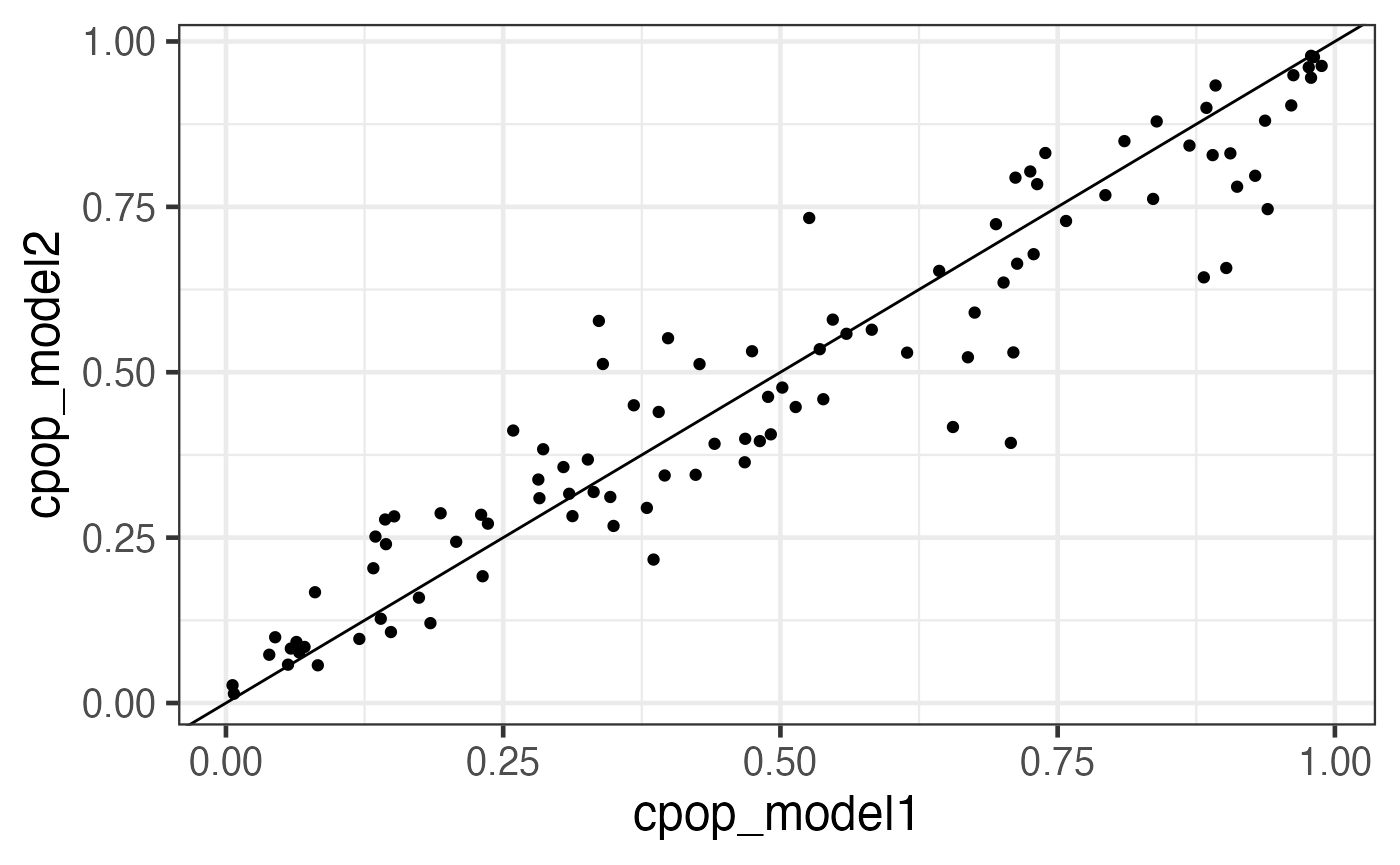
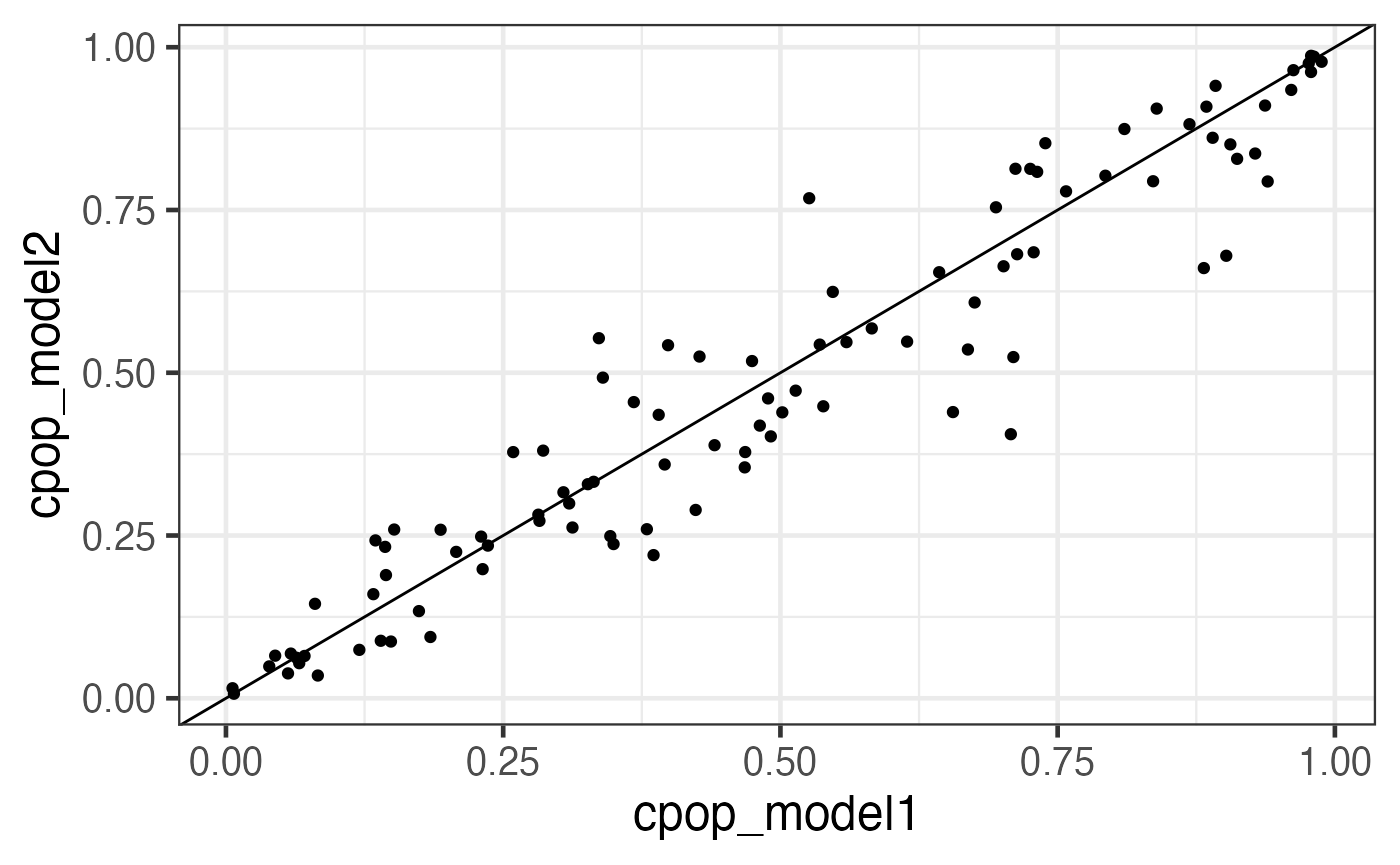
Built site for CPOP: 0.0.24@b8c599a

diff --git a/articles/CPOP.html b/articles/CPOP.html
@@ -149,28 +149,28 @@
 <pre><code><span class="co">## Fitting CPOP model using alpha = 1</span></code></pre>
 <pre><code><span class="co">## Based on previous alpha, 0 features are kept</span></code></pre>
 <pre><code><span class="co">## CPOP1 - Step 01: Number of selected features: 0 out of 190</span></code></pre>
-<pre><code><span class="co">## CPOP1 - Step 02: Number of selected features: 9 out of 190</span></code></pre>
-<pre><code><span class="co">## CPOP1 - Step 03: Number of selected features: 16 out of 190</span></code></pre>
+<pre><code><span class="co">## CPOP1 - Step 02: Number of selected features: 8 out of 190</span></code></pre>
+<pre><code><span class="co">## CPOP1 - Step 03: Number of selected features: 15 out of 190</span></code></pre>
 <pre><code><span class="co">## 10 features was reached.</span></code></pre>
-<pre><code><span class="co">## A total of 16 features were selected.</span></code></pre>
-<pre><code><span class="co">## Removing sources of collinearity gives 13 features.</span></code></pre>
+<pre><code><span class="co">## A total of 15 features were selected.</span></code></pre>
+<pre><code><span class="co">## Removing sources of collinearity gives 12 features.</span></code></pre>
 <pre><code><span class="co">## 10 features was reached.</span></code></pre>
-<pre><code><span class="co">## A total of 13 features were selected.</span></code></pre>
-<pre><code><span class="co">## CPOP2 - Sign: Step 01: Number of leftover features: 9 out of 13</span></code></pre>
+<pre><code><span class="co">## A total of 12 features were selected.</span></code></pre>
+<pre><code><span class="co">## CPOP2 - Sign: Step 01: Number of leftover features: 9 out of 12</span></code></pre>
 <pre><code><span class="co">## The sign matrix between the two data:</span></code></pre>
 <pre><code><span class="co">##     </span>
 <span class="co">##      -1 0 1</span>
-<span class="co">##   -1  0 0 1</span>
+<span class="co">##   -1  0 0 0</span>
 <span class="co">##   0   0 0 0</span>
 <span class="co">##   1   3 0 0</span></code></pre>
-<pre><code><span class="co">## CPOP2 - Sign: Step 02: Number of leftover features: 8 out of 13</span>
+<pre><code><span class="co">## CPOP2 - Sign: Step 02: Number of leftover features: 8 out of 12</span>
 <span class="co">## The sign matrix between the two data:</span></code></pre>
 <pre><code><span class="co">##     </span>
 <span class="co">##      -1 0 1</span>
 <span class="co">##   -1  0 0 0</span>
 <span class="co">##   0   0 0 0</span>
 <span class="co">##   1   1 0 0</span></code></pre>
-<pre><code><span class="co">## CPOP2 - Sign: Step 03: Number of leftover features: 8 out of 13</span>
+<pre><code><span class="co">## CPOP2 - Sign: Step 03: Number of leftover features: 8 out of 12</span>
 <span class="co">## The sign matrix between the two data:</span></code></pre>
 <pre><code><span class="co">##     </span>
 <span class="co">##      -1 0 1</span>
@@ -194,16 +194,16 @@
 <pre><code><span class="co">## </span>
 <span class="co">## $data</span>
 <span class="co">## <span style="color: #949494;"># A tibble: 8 × 3</span></span>
-<span class="co">##   coef_name  coef1     coef2</span>
-<span class="co">##   <span style="color: #949494; font-style: italic;">&lt;fct&gt;</span>      <span style="color: #949494; font-style: italic;">&lt;dbl&gt;</span>     <span style="color: #949494; font-style: italic;">&lt;dbl&gt;</span></span>
-<span class="co">## <span style="color: #BCBCBC;">1</span> X01--X10  -<span style="color: #BB0000;">0.322</span> -<span style="color: #BB0000;">0.245</span>   </span>
-<span class="co">## <span style="color: #BCBCBC;">2</span> X09--X17   0.722  0.468   </span>
-<span class="co">## <span style="color: #BCBCBC;">3</span> X11--X14   0.130  0.000<span style="text-decoration: underline;">811</span></span>
-<span class="co">## <span style="color: #BCBCBC;">4</span> X12--X20   0.404  0.143   </span>
-<span class="co">## <span style="color: #BCBCBC;">5</span> X01--X07  -<span style="color: #BB0000;">0.437</span> -<span style="color: #BB0000;">0.395</span>   </span>
-<span class="co">## <span style="color: #BCBCBC;">6</span> X01--X15  -<span style="color: #BB0000;">0.158</span> -<span style="color: #BB0000;">0.316</span>   </span>
-<span class="co">## <span style="color: #BCBCBC;">7</span> X01--X17  -<span style="color: #BB0000;">0.901</span> -<span style="color: #BB0000;">0.577</span>   </span>
-<span class="co">## <span style="color: #BCBCBC;">8</span> X04--X12   0.353  0.393</span></code></pre>
+<span class="co">##   coef_name  coef1    coef2</span>
+<span class="co">##   <span style="color: #949494; font-style: italic;">&lt;fct&gt;</span>      <span style="color: #949494; font-style: italic;">&lt;dbl&gt;</span>    <span style="color: #949494; font-style: italic;">&lt;dbl&gt;</span></span>
+<span class="co">## <span style="color: #BCBCBC;">1</span> X01--X10  -<span style="color: #BB0000;">0.322</span> -<span style="color: #BB0000;">0.245</span>  </span>
+<span class="co">## <span style="color: #BCBCBC;">2</span> X09--X17   0.722  0.591  </span>
+<span class="co">## <span style="color: #BCBCBC;">3</span> X11--X14   0.130  0.004<span style="text-decoration: underline;">57</span></span>
+<span class="co">## <span style="color: #BCBCBC;">4</span> X12--X20   0.404  0.205  </span>
+<span class="co">## <span style="color: #BCBCBC;">5</span> X01--X07  -<span style="color: #BB0000;">0.437</span> -<span style="color: #BB0000;">0.421</span>  </span>
+<span class="co">## <span style="color: #BCBCBC;">6</span> X01--X15  -<span style="color: #BB0000;">0.158</span> -<span style="color: #BB0000;">0.357</span>  </span>
+<span class="co">## <span style="color: #BCBCBC;">7</span> X01--X17  -<span style="color: #BB0000;">0.901</span> -<span style="color: #BB0000;">0.735</span>  </span>
+<span class="co">## <span style="color: #BCBCBC;">8</span> X04--X12   0.353  0.479</span></code></pre>
 <p>We can see that most of the selected features had similar coefficients across the two data. This is exactly what CPOP is aiming to achieve: selecting features that are consistent within each datasets.</p>
 <p>However, each of the feature (e.g. <code>X01--X10</code>) actually corresponds to two of the original features in the raw data <code>X01</code> and <code>X10</code> in the data <code>x1</code> and <code>x2</code>. We can further visualise these features in the original features.</p>
 <div class="sourceCode" id="cb33"><pre class="downlit sourceCode r">
@@ -213,16 +213,16 @@
 <pre><code><span class="co">## </span>
 <span class="co">## $data</span>
 <span class="co">## <span style="color: #949494;"># A tibble: 8 × 7</span></span>
-<span class="co">##   from  to     coef1     coef2 coef_avg coef_abs sign_coef1</span>
-<span class="co">##   <span style="color: #949494; font-style: italic;">&lt;chr&gt;</span> <span style="color: #949494; font-style: italic;">&lt;chr&gt;</span>  <span style="color: #949494; font-style: italic;">&lt;dbl&gt;</span>     <span style="color: #949494; font-style: italic;">&lt;dbl&gt;</span>    <span style="color: #949494; font-style: italic;">&lt;dbl&gt;</span>    <span style="color: #949494; font-style: italic;">&lt;dbl&gt;</span> <span style="color: #949494; font-style: italic;">&lt;chr&gt;</span>     </span>
-<span class="co">## <span style="color: #BCBCBC;">1</span> X01   X10   -<span style="color: #BB0000;">0.322</span> -<span style="color: #BB0000;">0.245</span>     -<span style="color: #BB0000;">0.283</span>    0.283  Negative  </span>
-<span class="co">## <span style="color: #BCBCBC;">2</span> X09   X17    0.722  0.468      0.595    0.595  Positive  </span>
-<span class="co">## <span style="color: #BCBCBC;">3</span> X11   X14    0.130  0.000<span style="text-decoration: underline;">811</span>   0.065<span style="text-decoration: underline;">6</span>   0.065<span style="text-decoration: underline;">6</span> Positive  </span>
-<span class="co">## <span style="color: #BCBCBC;">4</span> X12   X20    0.404  0.143      0.274    0.274  Positive  </span>
-<span class="co">## <span style="color: #BCBCBC;">5</span> X01   X07   -<span style="color: #BB0000;">0.437</span> -<span style="color: #BB0000;">0.395</span>     -<span style="color: #BB0000;">0.416</span>    0.416  Negative  </span>
-<span class="co">## <span style="color: #BCBCBC;">6</span> X01   X15   -<span style="color: #BB0000;">0.158</span> -<span style="color: #BB0000;">0.316</span>     -<span style="color: #BB0000;">0.237</span>    0.237  Negative  </span>
-<span class="co">## <span style="color: #BCBCBC;">7</span> X01   X17   -<span style="color: #BB0000;">0.901</span> -<span style="color: #BB0000;">0.577</span>     -<span style="color: #BB0000;">0.739</span>    0.739  Negative  </span>
-<span class="co">## <span style="color: #BCBCBC;">8</span> X04   X12    0.353  0.393      0.373    0.373  Positive</span></code></pre>
+<span class="co">##   from  to     coef1    coef2 coef_avg coef_abs sign_coef1</span>
+<span class="co">##   <span style="color: #949494; font-style: italic;">&lt;chr&gt;</span> <span style="color: #949494; font-style: italic;">&lt;chr&gt;</span>  <span style="color: #949494; font-style: italic;">&lt;dbl&gt;</span>    <span style="color: #949494; font-style: italic;">&lt;dbl&gt;</span>    <span style="color: #949494; font-style: italic;">&lt;dbl&gt;</span>    <span style="color: #949494; font-style: italic;">&lt;dbl&gt;</span> <span style="color: #949494; font-style: italic;">&lt;chr&gt;</span>     </span>
+<span class="co">## <span style="color: #BCBCBC;">1</span> X01   X10   -<span style="color: #BB0000;">0.322</span> -<span style="color: #BB0000;">0.245</span>    -<span style="color: #BB0000;">0.284</span>    0.284  Negative  </span>
+<span class="co">## <span style="color: #BCBCBC;">2</span> X09   X17    0.722  0.591     0.656    0.656  Positive  </span>
+<span class="co">## <span style="color: #BCBCBC;">3</span> X11   X14    0.130  0.004<span style="text-decoration: underline;">57</span>   0.067<span style="text-decoration: underline;">5</span>   0.067<span style="text-decoration: underline;">5</span> Positive  </span>
+<span class="co">## <span style="color: #BCBCBC;">4</span> X12   X20    0.404  0.205     0.305    0.305  Positive  </span>
+<span class="co">## <span style="color: #BCBCBC;">5</span> X01   X07   -<span style="color: #BB0000;">0.437</span> -<span style="color: #BB0000;">0.421</span>    -<span style="color: #BB0000;">0.429</span>    0.429  Negative  </span>
+<span class="co">## <span style="color: #BCBCBC;">6</span> X01   X15   -<span style="color: #BB0000;">0.158</span> -<span style="color: #BB0000;">0.357</span>    -<span style="color: #BB0000;">0.257</span>    0.257  Negative  </span>
+<span class="co">## <span style="color: #BCBCBC;">7</span> X01   X17   -<span style="color: #BB0000;">0.901</span> -<span style="color: #BB0000;">0.735</span>    -<span style="color: #BB0000;">0.818</span>    0.818  Negative  </span>
+<span class="co">## <span style="color: #BCBCBC;">8</span> X04   X12    0.353  0.479     0.416    0.416  Positive</span></code></pre>
 <p>Here we see that despite the features that we have selected in terms of the ratio, in actual fact, only a handful of features are useful. In particular, <code>X01</code>, <code>X09</code> and <code>X17</code> are the main contributors.</p>
 </div>
 <div class="section level2">
@@ -236,12 +236,12 @@
 <pre><code><span class="co">## <span style="color: #949494;"># A tibble: 6 × 6</span></span>
 <span class="co">##   samples cpop_model1 cpop_model2 cpop_model_avg cpop_model_avg_prob</span>
 <span class="co">##   <span style="color: #949494; font-style: italic;">&lt;chr&gt;</span>         <span style="color: #949494; font-style: italic;">&lt;dbl&gt;</span>       <span style="color: #949494; font-style: italic;">&lt;dbl&gt;</span>          <span style="color: #949494; font-style: italic;">&lt;dbl&gt;</span>               <span style="color: #949494; font-style: italic;">&lt;dbl&gt;</span></span>
-<span class="co">## <span style="color: #BCBCBC;">1</span> 1             0.465       0.119          0.292               0.572</span>
-<span class="co">## <span style="color: #BCBCBC;">2</span> 2            -<span style="color: #BB0000;">1.79</span>       -<span style="color: #BB0000;">0.957</span>         -<span style="color: #BB0000;">1.37</span>                0.210</span>
-<span class="co">## <span style="color: #BCBCBC;">3</span> 3             0.853       0.556          0.705               0.668</span>
-<span class="co">## <span style="color: #BCBCBC;">4</span> 4            -<span style="color: #BB0000;">0.936</span>      -<span style="color: #BB0000;">0.673</span>         -<span style="color: #BB0000;">0.805</span>               0.310</span>
-<span class="co">## <span style="color: #BCBCBC;">5</span> 5            -<span style="color: #BB0000;">0.424</span>      -<span style="color: #BB0000;">0.646</span>         -<span style="color: #BB0000;">0.535</span>               0.370</span>
-<span class="co">## <span style="color: #BCBCBC;">6</span> 6             1.00        1.29           1.15                0.758</span>
+<span class="co">## <span style="color: #BCBCBC;">1</span> 1             0.465       0.192          0.328               0.581</span>
+<span class="co">## <span style="color: #BCBCBC;">2</span> 2            -<span style="color: #BB0000;">1.79</span>       -<span style="color: #BB0000;">1.19</span>          -<span style="color: #BB0000;">1.49</span>                0.188</span>
+<span class="co">## <span style="color: #BCBCBC;">3</span> 3             0.853       0.679          0.766               0.682</span>
+<span class="co">## <span style="color: #BCBCBC;">4</span> 4            -<span style="color: #BB0000;">0.936</span>      -<span style="color: #BB0000;">0.935</span>         -<span style="color: #BB0000;">0.935</span>               0.282</span>
+<span class="co">## <span style="color: #BCBCBC;">5</span> 5            -<span style="color: #BB0000;">0.424</span>      -<span style="color: #BB0000;">0.579</span>         -<span style="color: #BB0000;">0.502</span>               0.377</span>
+<span class="co">## <span style="color: #BCBCBC;">6</span> 6             1.00        1.44           1.22                0.770</span>
 <span class="co">## <span style="color: #949494;"># … with 1 more variable: cpop_model_avg_class &lt;chr&gt;</span></span></code></pre>
 <div class="sourceCode" id="cb38"><pre class="downlit sourceCode r">
 <code class="sourceCode R"><span class="va">predicted_plotdf</span> <span class="op">=</span> <span class="fu"><a href="../reference/predict_cpop.html">predict_cpop</a></span><span class="op">(</span><span class="va">cpop_result</span>, newz <span class="op">=</span> <span class="va">z3</span><span class="op">)</span> <span class="op"><a href="https://magrittr.tidyverse.org/reference/pipe.html" class="external-link">%&gt;%</a></span>

diff --git a/reference/cpop_network.html b/reference/cpop_network.html
@@ -74,9 +74,9 @@ using the `ggraph` package.</p></li>
 <span class="r-in"><span class="fu">plot_lratio_network</span><span class="op">(</span><span class="va">x</span>, type <span class="op">=</span> <span class="st">"ggraph"</span><span class="op">)</span></span>
 <span class="r-plt img"><img src="cpop_network-1.png" alt="" width="700" height="433"></span>
 <span class="r-in"><span class="fu">plot_lratio_network</span><span class="op">(</span><span class="va">x</span>, type <span class="op">=</span> <span class="st">"igraph"</span><span class="op">)</span></span>
-<span class="r-out co"><span class="r-pr">#&gt;</span> IGRAPH 3c0c9dc UN-- 10 9 -- </span>
+<span class="r-out co"><span class="r-pr">#&gt;</span> IGRAPH 4e4fe32 UN-- 10 9 -- </span>
 <span class="r-out co"><span class="r-pr">#&gt;</span> + attr: name (v/c)</span>
-<span class="r-out co"><span class="r-pr">#&gt;</span> + edges from 3c0c9dc (vertex names):</span>
+<span class="r-out co"><span class="r-pr">#&gt;</span> + edges from 4e4fe32 (vertex names):</span>
 <span class="r-out co"><span class="r-pr">#&gt;</span> [1] X1 --X10 X1 --X3  X1 --X4  X1 --X8  X1 --X9  X2 --X5  X2 --X7  X2 --X6 </span>
 <span class="r-out co"><span class="r-pr">#&gt;</span> [9] X10--X8 </span>
 <span class="r-in"><span class="fu">plot_lratio_network</span><span class="op">(</span><span class="va">x</span>, type <span class="op">=</span> <span class="st">"visNetwork"</span><span class="op">)</span></span>
